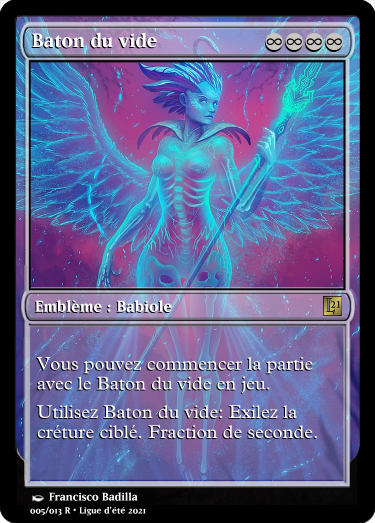
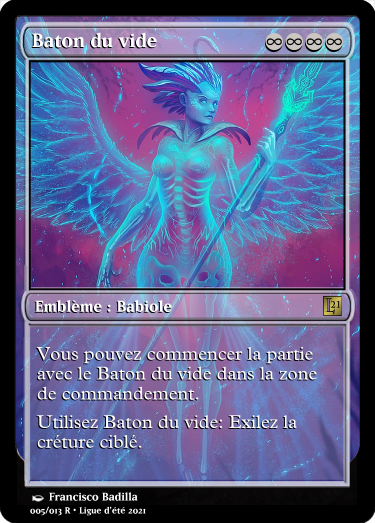
apply remarks from greg, update babioles visuals, merges changes from e73406beacb2857cceae89c6a970cdc8c389d898 and 9891243144a3c0aff1943bced37d5359bd9390f7 to content

Changed region(s): [[0.088, 0.6424, 0.8507, 0.8566]]

diff --git a/readme.content/reglement.md b/readme.content/reglement.md
@@ -1,6 +1,6 @@
 
 
-## Reglement 
+## Règlement 
 
 ### Déroulement d’un match. 
 
@@ -10,9 +10,9 @@ Pour lancer un match, les joueurs doivent s’être mis d’accord sur le mode d
 
 Il est possible de jouer en mode casual ou CEDH. L’ensemble des joueurs de la table doit se mettre d’accord sur le mode de jeu avant de débuter la partie. Le mode de jeu devra être indiqué sur la feuille de score. 
 
-En CEDH, uniquement les points « Traditionnel » sont actifs, il n’y a pas de pénalités et il n’est pas possible d’acheter ni du temps, ni des actions, les régles du jour (ROTD) ne sont pas active. London mulligan avec un mulli gratuit, draw au premier tour. 
+En mode CEDH, uniquement les points « Traditionnel » sont actifs, il n’y a pas de pénalités et il n’est pas possible d’acheter ni du temps, ni des actions, les régles du jour (ROTD) ne sont pas active. London mulligan avec un mulli gratuit, draw au premier tour. 
 
-Le système de points casual récompense le jeu plus que la victoire et compte toutes les règles de points et les parties peuvent durer plus de 2h (cf. Temps). Dans ce mode, il peut être intéressant de s’accorder sur un powerlevel “équilibré” entre les joueurs. London mulligan avec deux mulligan gratuit, draw au premier tour.  
+Le mode casual récompense le jeu plus que la victoire et comporte donc toutes les règles de points. Les parties peuvent durer plus de 2h (cf. Temps). Dans ce mode, il peut être intéressant de s’accorder sur un powerlevel “équilibré” entre les joueurs. Le London mulligan est d'application, toutefois avec deux mulligan gratuit au lieu d'un seul, draw au premier tour. 
 
 Le mode de jeu influe sur les règles de points active ou non, rien n’empêche d’utiliser des decks CEDH en partie casual si la table le souhaite ou d’utiliser des decks “casual” en mode CEDH. Mais les joueurs CEDH souhaiteront certainement pouvoir jouer plus “librement”. 
 
@@ -30,7 +30,7 @@ Le mode de jeu influe sur les règles de points active ou non, rien n’empêche
 
 Certaines actions durant le match rapportent ou font perdre des points. Ces points sont cumulables par joueur et par match, il est possible que le même joueur marque plusieurs fois le même point durant le même match. La seule exception à cette règle sont les points du jours qui ne peuvent être obtenu qu’une fois par match par joueur. 
 
-Si un invité a pris part au match, A la fin du match, chaque adversaire de ce joueur gagne un nombre de point egal aux points de ce joueur divisé par le nombre de ses adversaires arrondi a l’inférieur. 
+Si un invité a pris part au match, à la fin de celui-ci, chaque adversaire de ce joueur gagne un nombre de point egal aux points de ce joueur divisé par le nombre de ses adversaires arrondi a l’inférieur. 
 
 Par exemple, un invité gagne 5 points et à terminé un match contre 3 autres joueurs, chaque joueur gagne 1 point 
 
@@ -40,7 +40,7 @@ Au début de chaque journée de rencontre, 3 règles de la liste ROTD sont tiré
 
 ### Don de points 
 
-Durant une partie, les joueurs peuvent donner des points a d’autres joueurs, par exemple en échange de certaines actions. Le nombre total de points pouvant être donné durant une partie est limité à 5 et ils doivent être disponible au début de la journée de rencontre. Un don est point est traité comme une action spéciale. Pour utiliser cette action, vous devez appeler un TO présent. Ces dons sont possible en CEDH et en casual. 
+Durant une partie, les joueurs peuvent donner des points à d’autres joueurs, par exemple en échange de certaines actions. Le nombre total de points pouvant être donné durant une partie est limité à 5 et ils doivent être disponible au début de la journée de rencontre. Un don est point est traité comme une action spéciale. Pour utiliser cette action, vous devez appeler un TO présent. Ces dons sont possible en CEDH et en casual. 
 
 ### Babioles 
 
@@ -48,21 +48,21 @@ Des objets, appelé babioles, sont disponibles à l’achat auprès d’un TO et
 
 Les babioles sont représentées par des emblèmes et peuvent être mise en jeu, dans la zone de commandement, avant d’avoir pioché sa première main. Chaque joueur doit annoncer qu'il a mis une babiole en jeu. Elles ne peuvent pas être mise en jeu en CEDH. Quand la babiole est utilisée, elle cesse d'exister, elle n’est ni détruite, ni exilée (ne trigger rien et ne va nulle par). Utiliser une babiole est une action spéciale et ne passe donc pas par la stack. Son usage doit être reporté sur la feuille de score. 
 
-| **Cout** | **Effet**                                         | **Nom de l’objet** | **Cible**     |
-| -------- | ------------------------------------------------- | ------------------ | ------------- |
-| **2**    | Gagner 5 pv                                       | Flasque de vie     | You           |
-| **4**    | Exile la créature ciblée                          | Bâton du vide      | Target crea.  |
-| **2**    | Mulli gratuit, avec remise (si 6 cartes ou moins) | Fleurs sechés      | You           |
-| **4**    | Mulli à 7, avec remise 1                          | Racine étranges    | You           |
-| **2**    | Scry 1                                            | Monocle du savoir  | You           |
-| **4**    | Draw 1                                            | Tome du savoir     | You           |
-| **3**    | Fog                                               | Potion d’oubli     | Target player |
-| **5**    | Teferi’s Protection jusqu’a la prochaine upkeep   | Anneau sacré       | Target player |
-| **10**   | ???                                               | ???                | ???           |
+| **Cout** | **Effet**                                            | **Nom de l’objet** | **Cible**     |
+| -------- | ---------------------------------------------------- | ------------------ | ------------- |
+| **3**    | Gagnez 5 pv                                          | Fiole de vie       | You           |
+| **4**    | Exilez la créature ciblée                            | Bâton du vide      | Target crea.  |
+| **2**    | Mulligan gratuit, avec remise (si 6 cartes ou moins) | Fleurs sechés      | You           |
+| **5**    | Mulligan à 7, avec remise 1                          | Racine étrange     | You           |
+| **2**    | Scry 1                                               | Monocle des pensés | You           |
+| **5**    | Draw 1                                               | Tome de préscience | You           |
+| **3**    | Fog                                                  | Potion d’oubli     | Target player |
+| **7**    | Teferi’s Protection jusqu’a la prochaine upkeep      | Faveur des dieux   | Target player |
+| **10**   | ???                                                  | ???                | ???           |
 
 ### Feuille de score 
 
-Une feuille de score par match sera obtenue auprès d’un TO. La table devra remplir le nom des joueurs et le mode de jeu choisit avant de débuter la partie. A la fin de la partie chaque joueur devra signer ou parapher la feuille avant de la rendre. Gardez la propre, clair et lisible. La table est responsable de tenir la feuille à jour durant la partie. Quand un point est marqué un trait doit être indiqué à l’intersection de la ligne et colonne correspondante. Les ligne grisée concernent des points qui peuvent être vérifié en fin de partie. Les 3 lignes du fond concernent les points du jours (cf. Points du jour) N’écrivez qu’au crayon ou encre effaçable pour conserver les feuilles lisibles. (portes mine fourni) 
+Une feuille de score par match sera obtenue auprès d’un TO. La table devra remplir le nom des joueurs et le mode de jeu choisit avant de débuter la partie. À la fin de la partie chaque joueur devra signer ou parapher la feuille avant de la rendre. Gardez la propre, clair et lisible. La table est responsable de tenir la feuille à jour durant la partie. Quand un point est marqué un trait doit être indiqué à l’intersection de la ligne et colonne correspondante. Les ligne grisée concernent des points qui peuvent être vérifié en fin de partie. Les 3 lignes du fond concernent les points du jours (cf. Points du jour) N’écrivez qu’au crayon ou encre effaçable pour conserver les feuilles lisibles. (portes mine fourni) 
 
 ### Temps 
 

diff --git a/readme.content/points.md b/readme.content/points.md
@@ -52,8 +52,8 @@ Peuvent être vérifié à la fin de la partie.
 
 |        | **Nom**                  | **Description**                                              |
 | ------ | ------------------------ | ------------------------------------------------------------ |
-| **+1** | Belle magie!             | A la fin de la game, les joueurs peuvent nommer un play, les joueurs peuvent ensuite voter pour un play nome et celui avec le plus de vote accorde un point à son auteur. |
-| **+1** | Tu es mon Héro!          | A la fin de la game, les joueurs votent chacun, secrètement, pour un autre joueur. Le joueur avec le plus de vote remporte un point. |
+| **+1** | Belle magie!             | À la fin de la game, les joueurs peuvent nommer un play, les joueurs peuvent ensuite voter pour un play nome et celui avec le plus de vote accorde un point à son auteur. |
+| **+1** | Tu es mon Héro!          | À la fin de la game, les joueurs votent chacun, secrètement, pour un autre joueur. Le joueur avec le plus de vote remporte un point. |
 | **+1** | Les pv c’est la vie      | Gagner la game avec 80 points de vie ou plus.                |
 | **+1** | Même pas mal             | Gagner la game avec moins de 5 points de vie                 |
 | **+1** | Préfabriqué              | Jouer avec un deck préconstruit non modifié                  |
@@ -69,7 +69,7 @@ Cfr règlement règles du jours, +1 points chacun (sauf jour de colère et jour 
 
 | **D20** | **Nom**              | **Description**                                              |
 | ------- | -------------------- | ------------------------------------------------------------ |
-| **1**   | Jour de colère       | A la fin de la partie, chaque joueur, par ordre de priorité, a le choix de faire perdre un point a un autre joueur |
+| **1**   | Jour de colère       | À la fin de la partie, chaque joueur, par ordre de priorité, a le choix de faire perdre un point a un autre joueur |
 | **2**   | Nomade               | Finir la partie ou être éliminé avec le moins de land        |
 | **3**   | Coulé                | Etre le premier joueur à infliger plus de 5 degats en une phase de combat |
 | **4**   | La force de l’esprit | Exiler une créature avec une force supérieur a 11            |
@@ -88,4 +88,4 @@ Cfr règlement règles du jours, +1 points chacun (sauf jour de colère et jour 
 | **17**  | Dolorisme            | Recevoir 10 dégâts provenant de sources contrôlé par soit    |
 | **18**  | Drogono              | Terminer la partie en ayant joué moins de 5 sorts passé le tour 6 |
 | **19**  | Indiana Jones        | Contrôler plus de 8 artefacts                                |
-| **20**  | Jour de chance       | A la fin de la partie, chaque joueur, par ordre de priorité, a le choix de faire gagner un point a un autre joueur. |
+| **20**  | Jour de chance       | À la fin de la partie, chaque joueur, par ordre de priorité, a le choix de faire gagner un point a un autre joueur. |

diff --git a/readme.content/toc.md b/readme.content/toc.md
@@ -11,5 +11,5 @@ L'esprit de cette ligue est similaire à la première : permettre aux gens de  j
 | Contact | Discord       |            |                           |
 | ------- | ------------- | ---------- | ------------------------- |
 | Manu    | Manu404#6726  | 0498236279 | contact@emmanuelistace.be |
-| Greg    | Yberamos#2213 |            |                           |
+| Greg    | Yberamos#2213 | 0471292851 | gregoiredemoulin2@gmail.com |
 

diff --git a/readme.content/header.md b/readme.content/header.md
@@ -1,0 +1,4 @@
+
+[comment]: # (This file is generated, don't modify it, check content subfolder)
+
+[comment]: # (Ce fichier est généré, ne le modifiez pas, regarder le sous dossier content)
